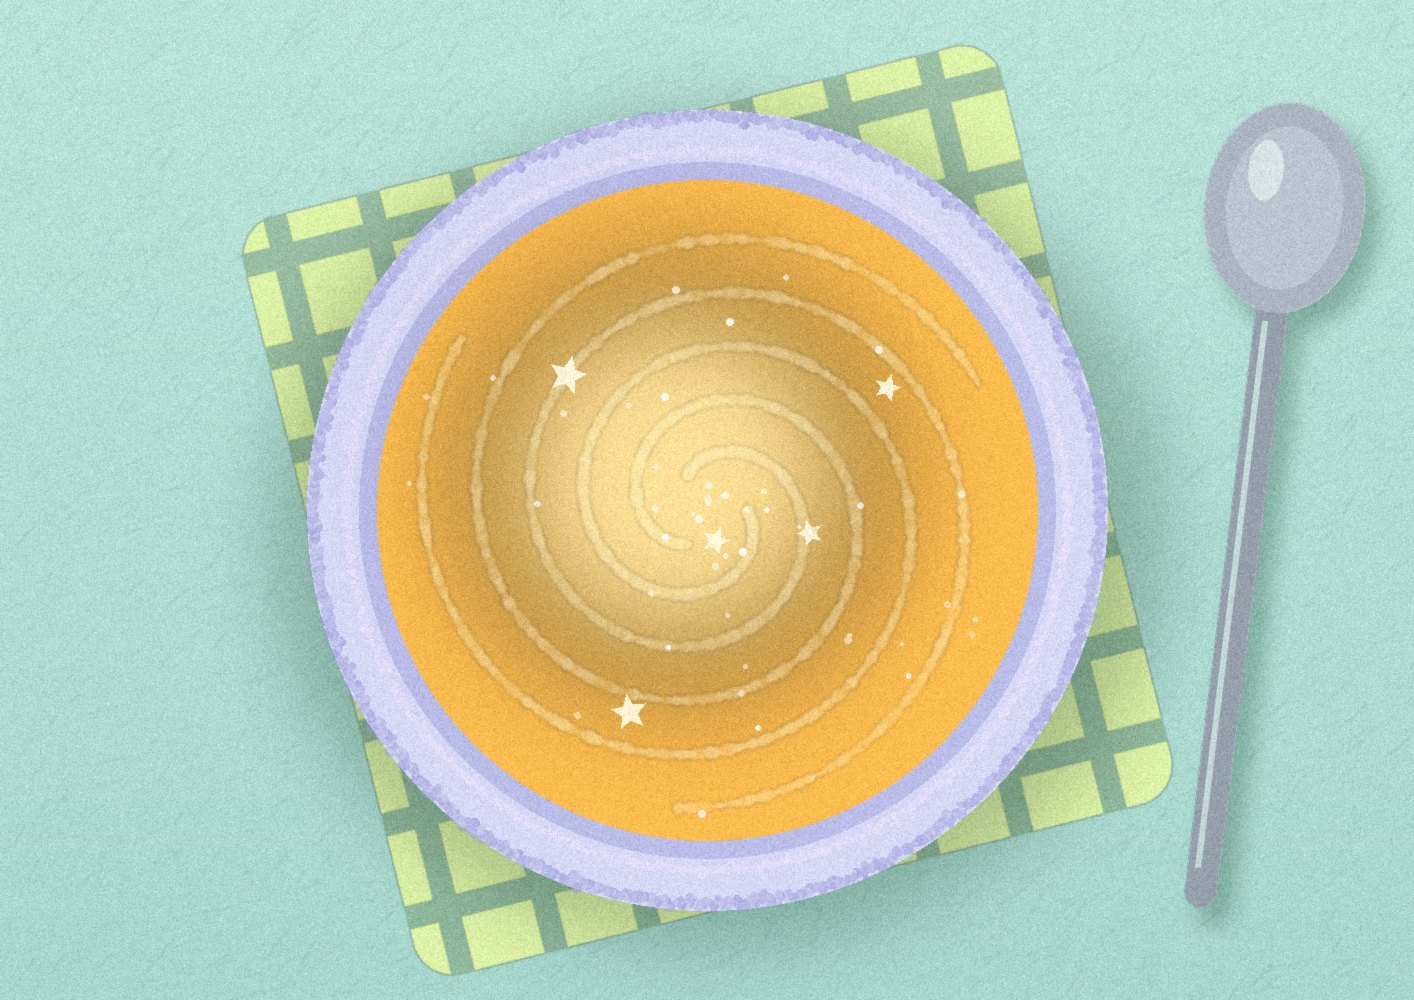
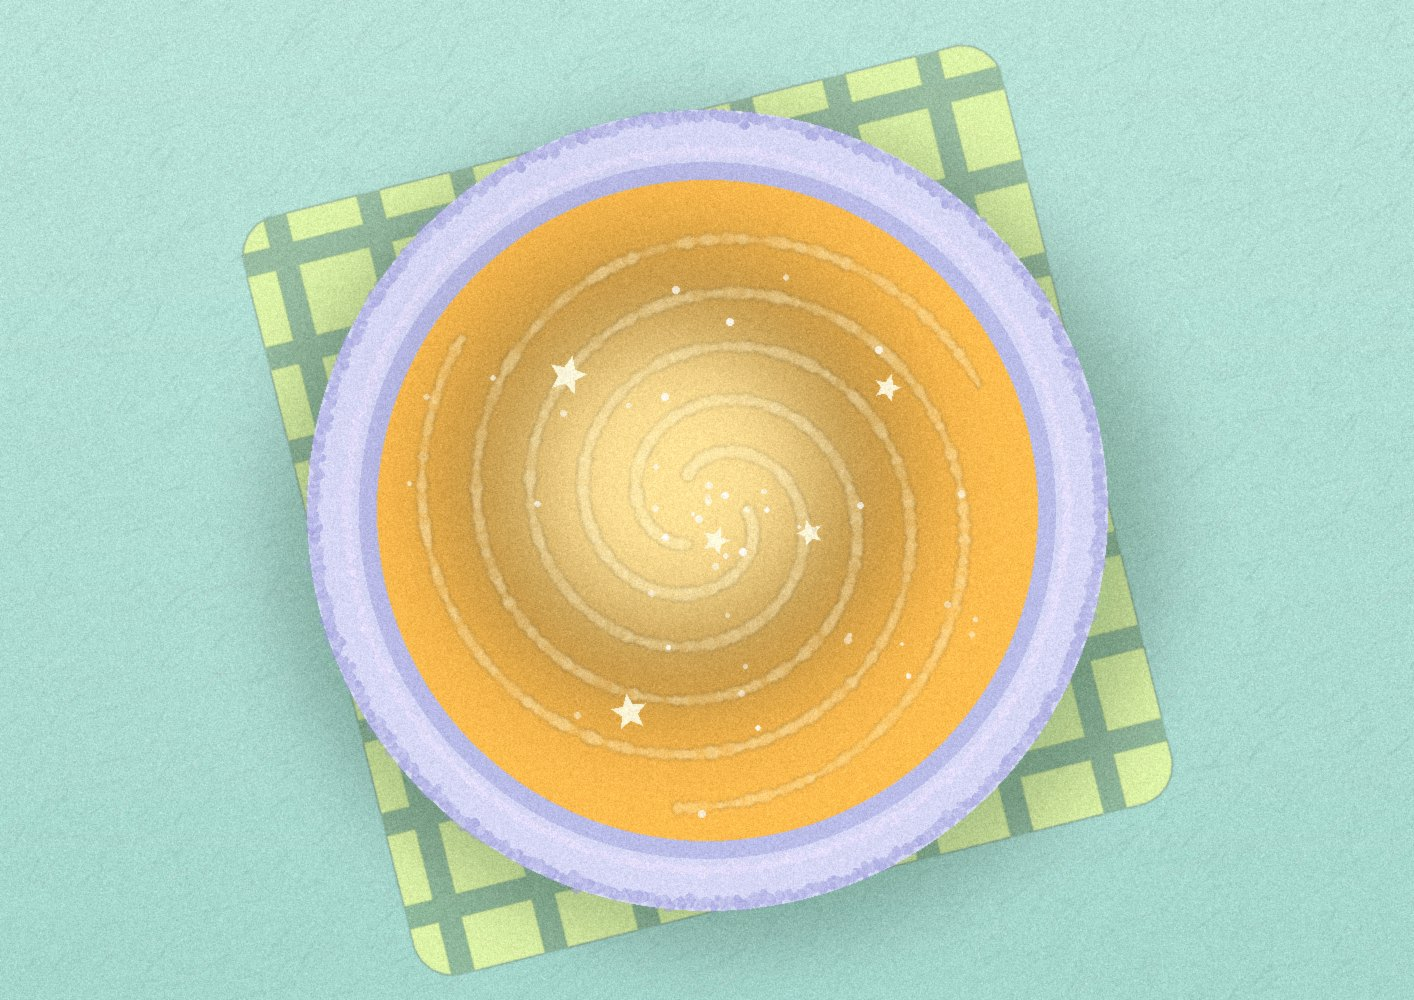
V6.5: 떠먹기를 #8 13쪽 점선 원으로 옮기고, 그림 속 숟가락이 직접 움직이게, 설명 글씨 1/3 줄이기
- 그릇 그림에서 숟가락을 빼 08-spoon.png로 따로 (soup_top.py), 재료·젓기 화면·#8에 같은 자리로 올림
- 젓기 화면의 떠먹기 제거
- #8 13쪽: 그릇 가운데 점선 원이 느릿하게 깜빡이고, 누르면 그 숟가락이 와서 한 숟갈 떠 올리고 제자리로
- 나레이션 아래 설명 문장 글씨·여백 1/3 작게

Claude-Session: https://claude.ai/code/session_01Nbh8N8c4tqUAvigBFfQUWv

Changed region(s): [[0.8402, 0.093, 0.9958, 0.93]]

diff --git a/storybook/js/main.js b/storybook/js/main.js
@@ -637,6 +637,7 @@
         : null;
       case 'taste': return tasteCarousel();
       case 'soup-ingredients': return soupIngredients(false);
+      case 'soup-scoop': return soupScoop();
       case 'taste-draw': return state.taste === 'custom' ? drawPad(leaf, { key: IMG_TASTE, title: '무슨 맛이 났는지 그리기', clear: true, paper: true }) : null;
       // #8: 꾸민 착한 일 종이(메모지)를 스프가 놓인 식탁 한구석에
       case 'deed-note': return images[IMG_DEED]
@@ -1669,7 +1670,7 @@
       },
       body: function () {
         var full = state.soup.length >= S.limits.ingredients;
-        var pot = el('div', { class: 'soup-pot' }, el('img', { class: 'soup-pot-img', src: 'assets/backgrounds/08-soup-top.jpg', alt: '위에서 내려다본 별빛스프' }), el('div', { class: 'soup-galaxy' }), soupIngredients(true));
+        var pot = el('div', { class: 'soup-pot' }, el('img', { class: 'soup-pot-img', src: 'assets/backgrounds/08-soup-top.jpg', alt: '위에서 내려다본 별빛스프' }), el('div', { class: 'soup-galaxy' }), soupIngredients(true), potSpoon());
         var add = el('button', {
           type: 'button', class: 'btn btn-soft btn-small soup-add', disabled: full,
           text: full ? '재료를 다섯 개 다 넣었어요' : '+ 재료 넣기 (' + state.soup.length + '/' + S.limits.ingredients + ')',
@@ -1705,7 +1706,7 @@
         var count = el('div', { class: 'stir-count', 'aria-live': 'polite' });
         var pot = el('button', { type: 'button', class: 'soup-pot stir-pot', 'aria-label': '스프 젓기 (눌러서 저어요)' },
           el('img', { class: 'soup-pot-img', src: 'assets/backgrounds/08-soup-top.jpg', alt: '' }),
-          el('div', { class: 'stir-floor', 'aria-hidden': 'true' }), surface, floats, count);
+          el('div', { class: 'stir-floor', 'aria-hidden': 'true' }), surface, floats, potSpoon(), count);
         // 물성: 걸쭉한 스프를 숟가락으로 미는 느낌
         //  - 힘이 서서히 실려 천천히 출발(슬로우 인), 관성으로 살짝 지나쳤다가 되돌아와 멈춤
         //  - 재료는 액체보다 늦게, 더 크게 흔들리며 따라옴
@@ -1874,7 +1875,7 @@
         if (window.ResizeObserver) new ResizeObserver(function () { if (!phy.raf) drawGoo(); }).observe(goo);
         else requestAnimationFrame(function () { requestAnimationFrame(drawGoo); });
         pot.addEventListener('pointerdown', function (e) {
-          if (state.soupStirs >= 10) { scoop(pot, e); return; }   // 다 저은 뒤에는 누르면 한 숟갈 떠먹는다
+          if (state.soupStirs >= 10) return;
           state.soupStirs++;
           paint();
           phy.tap = performance.now();
@@ -1919,8 +1920,8 @@
         });
         return el('div', { class: 'soup-cook' }, pot);
       },
-      note: function () { return state.soupStirs >= 10 ? '보글보글, 별빛스프가 완성됐어요! 스프를 누르면 한 숟갈 떠먹어요.' : '스프를 눌러 저어요. 한 번 누를 때마다 휘휘 돌아가요.'; },
-      notes: function () { return ['보글보글, 별빛스프가 완성됐어요! 스프를 누르면 한 숟갈 떠먹어요.', '스프를 눌러 저어요. 한 번 누를 때마다 휘휘 돌아가요.']; },
+      note: function () { return state.soupStirs >= 10 ? '보글보글, 별빛스프가 완성됐어요!' : '스프를 눌러 저어요. 한 번 누를 때마다 휘휘 돌아가요.'; },
+      notes: function () { return ['보글보글, 별빛스프가 완성됐어요!', '스프를 눌러 저어요. 한 번 누를 때마다 휘휘 돌아가요.']; },
       ready: function () { return state.soupStirs >= 10; },
       requireMessage: '스프를 10번 눌러서 다 저어 주세요.'
     },
@@ -2172,46 +2173,69 @@
     if (state.scene > 0) go(state.scene - 1, lastPage(S.scenes[state.scene - 1]));
   }
 
-  /* ---------- 떠먹기: 다 저은 스프를 누르면 은숟가락이 내려와 한 숟갈 떠서 들어 올린다 ----------
-     숟가락이 비스듬히 들어와(슬로우 인) 스프에 잠기며 파문이 일고, 금빛 스프를 담아 위로 올라가며 사라진다 */
-  function scoop(pot, e) {
-    if (pot._scooping) return;
-    pot._scooping = true;
-    var r = pot.getBoundingClientRect();
-    // 누른 곳을 스프 원 안으로 당겨 온다 (원: 가로 23.35%, 세로 33%)
-    var cx = r.width * 0.5, cy = r.height * 0.51, rx = r.width * 0.2335 * 0.8, ry = r.height * 0.33 * 0.8;
-    var dx = (e.clientX - r.left - cx) / rx, dy = (e.clientY - r.top - cy) / ry, dd = Math.hypot(dx, dy);
-    if (dd > 1) { dx /= dd; dy /= dd; }
-    var x = cx + dx * rx, y = cy + dy * ry, S = r.width * 0.3;
-    var spoon = el('div', { class: 'scoop', 'aria-hidden': 'true' });
-    spoon.innerHTML = '<svg viewBox="0 0 60 200" width="100%" height="100%"><defs><linearGradient id="spg" x1="0" x2="1"><stop offset="0" stop-color="#cfd6e0"/><stop offset=".5" stop-color="#f4f7fa"/><stop offset="1" stop-color="#aeb8c6"/></linearGradient></defs>' +
-      '<rect x="25" y="62" width="10" height="134" rx="5" fill="url(#spg)" stroke="#9aa5b4" stroke-width="1.5"/>' +
-      '<ellipse cx="30" cy="34" rx="24" ry="32" fill="url(#spg)" stroke="#9aa5b4" stroke-width="1.5"/>' +
-      '<ellipse class="scoop-soup" cx="30" cy="36" rx="18" ry="24" fill="#f6b94a" opacity="0"/>' +
-      '<ellipse cx="22" cy="24" rx="5" ry="9" fill="#fff" opacity=".7"/></svg>';
-    spoon.style.left = x + 'px'; spoon.style.top = y + 'px'; spoon.style.width = S * 0.3 + 'px'; spoon.style.height = S + 'px';
-    pot.append(spoon);
-    var fill = spoon.querySelector('.scoop-soup');
-    var t = 'translate(-50%, -18%) ';
-    var anim = spoon.animate([
-      { transform: t + 'translate(40%, -70%) rotate(28deg) scale(1.05)', opacity: 0 },
-      { transform: t + 'translate(10%, -20%) rotate(18deg)', opacity: 1, offset: 0.25 },
-      { transform: t + 'translate(0, 4%) rotate(6deg) scale(0.96)', opacity: 1, offset: 0.45 },     // 스프에 잠김
-      { transform: t + 'translate(-6%, 2%) rotate(-4deg) scale(0.96)', opacity: 1, offset: 0.6 },   // 떠 올림
-      { transform: t + 'translate(-10%, -60%) rotate(-12deg) scale(1.04)', opacity: 1, offset: 0.85 },
-      { transform: t + 'translate(-14%, -95%) rotate(-16deg) scale(1.08)', opacity: 0 }
-    ], { duration: 2000, easing: 'cubic-bezier(.45,.05,.35,1)' });
-    fill.animate([{ opacity: 0 }, { opacity: 0, offset: 0.5 }, { opacity: 1, offset: 0.6 }, { opacity: 1 }], { duration: 2000, fill: 'forwards' });
-    // 숟가락이 잠기는 순간 파문
-    setTimeout(function () {
-      var ring = el('span', { class: 'scoop-ring', 'aria-hidden': 'true' });
-      ring.style.left = x + 'px'; ring.style.top = y + 'px'; ring.style.width = ring.style.height = S * 0.5 + 'px';
-      pot.append(ring);
-      if (ring.animate) ring.animate([{ transform: 'translate(-50%, -50%) scale(0.3)', opacity: 0.9 }, { transform: 'translate(-50%, -50%) scale(1.6)', opacity: 0 }], { duration: 800, easing: 'ease-out', fill: 'forwards' });
-      setTimeout(function () { ring.remove(); }, 820);
-    }, 850);
-    var done = function () { spoon.remove(); pot._scooping = false; };
-    anim.finished.then(done, done);
+  /* ---------- 별빛스프 숟가락 ----------
+     그릇 그림(08-soup-top.jpg)에는 숟가락이 없고, 같은 자리에 따로 놓는다 (tools/soup_top.py가 08-spoon.png와 자리를 만든다).
+     그림과 같은 297:210 상자 안에서 % 위치라 재료 화면·젓기 화면·#8 13쪽 어디서나 같은 자리 */
+  var SPOON = { x: 0.761, y: 0.069, w: 0.256, h: 0.912, hx: 0.58, hy: 0.13 };   // hx·hy: 숟가락 머리(오목한 곳) 위치
+  function potSpoon() {
+    var wrap = el('div', { class: 'pot-spoon', 'aria-hidden': 'true' },
+      el('img', { src: 'assets/backgrounds/08-spoon.png', alt: '', draggable: 'false' }),
+      el('span', { class: 'pot-spoon-soup' }));
+    wrap.style.left = SPOON.x * 100 + '%'; wrap.style.top = SPOON.y * 100 + '%';
+    wrap.style.width = SPOON.w * 100 + '%'; wrap.style.height = SPOON.h * 100 + '%';
+    wrap.style.transformOrigin = SPOON.hx * 100 + '% ' + SPOON.hy * 100 + '%';
+    var soup = wrap.querySelector('.pot-spoon-soup');
+    soup.style.left = SPOON.hx * 100 + '%'; soup.style.top = SPOON.hy * 100 + '%';
+    return wrap;
+  }
+
+  /* ---------- #8 13쪽: 떠먹기 ----------
+     그릇 가운데에 점선 원이 느릿하게 깜빡인다. 누르면 옆에 놓인 숟가락이 날아와 스프에 잠기고(파문),
+     금빛 스프를 한 숟갈 떠서 들어 올렸다가 제자리로 돌아간다 */
+  function soupScoop() {
+    var box = el('div', { class: 'scoop-layer' });
+    var spoon = potSpoon();
+    var ring = el('button', { type: 'button', class: 'scoop-target', 'aria-label': '별빛스프 한 숟갈 떠먹기' });
+    box.append(spoon, ring);
+    var blink = ring.animate ? ring.animate([{ opacity: 0.25 }, { opacity: 1 }], { duration: 1600, direction: 'alternate', iterations: Infinity, easing: 'ease-in-out' }) : null;
+    var busy = false;
+    ring.addEventListener('click', function (e) {
+      e.stopPropagation();
+      if (busy || !spoon.animate) return;
+      busy = true;
+      if (blink) blink.pause();
+      ring.animate([{ opacity: getComputedStyle(ring).opacity }, { opacity: 0 }], { duration: 300, fill: 'forwards' });
+      var W = box.clientWidth, H = box.clientHeight;
+      // 숟가락 머리를 그릇 가운데(점선 원)로
+      var hx = (SPOON.x + SPOON.w * SPOON.hx) * W, hy = (SPOON.y + SPOON.h * SPOON.hy) * H;
+      var tx = 0.5 * W - hx, ty = 0.51 * H - hy;
+      var f = function (k, rot, sc) { return 'translate(' + (tx * k).toFixed(1) + 'px,' + (ty * k).toFixed(1) + 'px) rotate(' + rot + 'deg) scale(' + sc + ')'; };
+      var a = spoon.animate([
+        { transform: f(0, 0, 1) },
+        { transform: f(0.15, -10, 1.06), offset: 0.12 },                                  // 집어 들기
+        { transform: 'translate(' + tx.toFixed(1) + 'px,' + (ty - H * 0.08).toFixed(1) + 'px) rotate(-38deg) scale(1.08)', offset: 0.36 },
+        { transform: f(1, -30, 0.96), offset: 0.48 },                                     // 스프에 잠김
+        { transform: f(1, -44, 0.96), offset: 0.6 },                                      // 떠 올림
+        { transform: 'translate(' + tx.toFixed(1) + 'px,' + (ty - H * 0.16).toFixed(1) + 'px) rotate(-40deg) scale(1.1)', offset: 0.76 },
+        { transform: f(0, 0, 1) }
+      ], { duration: 2800, easing: 'cubic-bezier(.45,.05,.35,1)' });
+      spoon.querySelector('.pot-spoon-soup').animate(
+        [{ opacity: 0 }, { opacity: 0, offset: 0.55 }, { opacity: 1, offset: 0.62 }, { opacity: 1, offset: 0.82 }, { opacity: 0, offset: 0.92 }, { opacity: 0 }],
+        { duration: 2800 });
+      setTimeout(function () {
+        var rip = el('span', { class: 'scoop-ring', 'aria-hidden': 'true' });
+        box.append(rip);
+        rip.animate([{ transform: 'translate(-50%, -50%) scale(0.3)', opacity: 0.9 }, { transform: 'translate(-50%, -50%) scale(1.7)', opacity: 0 }], { duration: 900, easing: 'ease-out', fill: 'forwards' });
+        setTimeout(function () { rip.remove(); }, 920);
+      }, 2800 * 0.47);
+      var done = function () {
+        busy = false;
+        ring.getAnimations().forEach(function (x) { if (x !== blink) x.cancel(); });
+        if (blink) blink.play();
+      };
+      a.finished.then(done, done);
+    });
+    return box;
   }
 
   /* ---------- 스프 완성: 그릇 가운데에서 별이 팡 튀어 오르고 금빛이 번진다 ----------
@@ -2256,7 +2280,7 @@
   var swipe = null;
   book.addEventListener('pointerdown', function (e) {
     if (e.pointerType === 'mouse' || swipe || switching) return;
-    if (e.target.closest('.sticker, input, textarea, .chips, .carousel, .tdraw-host, .win')) return;
+    if (e.target.closest('.sticker, input, textarea, .chips, .carousel, .tdraw-host, .win, .scoop-target')) return;
     swipe = { id: e.pointerId, x: e.clientX, y: e.clientY, t: performance.now(), dir: null, leaf: currentLeaf() };
   });
   book.addEventListener('pointermove', function (e) {

diff --git a/storybook/css/style.css b/storybook/css/style.css
@@ -1562,3 +1562,22 @@ button, .tile, .chip { touch-action: manipulation; }   /* 두 번 탭 확대와 
   background: rgb(255 252 244 / 0.86) !important; color: #6a4a2a !important; opacity: 1 !important;
   box-shadow: 0 0.6cqh 1.6cqh -0.6cqh rgb(0 0 0 / 0.25) !important; text-shadow: none !important;
 }
+/* 설명 문장: 1/3 작게 */
+.pg-note, .pg-note--bottom { font-size: max(7px, 2cqh) !important; padding: 0.7cqh 1.8cqh !important; line-height: 1.35; }
+
+/* 별빛스프 숟가락 (그릇 그림과 같은 상자 안 % 위치) */
+.pot-spoon { position: absolute; z-index: 3; pointer-events: none; will-change: transform; }
+.pot-spoon img { display: block; width: 100%; height: 100%; }
+.pot-spoon-soup { position: absolute; width: 30%; height: 11%; border-radius: 50%; transform: translate(-50%, -50%); background: radial-gradient(circle at 40% 40%, #ffe6a0, #f6b94a 60%, #e89a2c); opacity: 0; }
+.stir-pot .pot-spoon, .soup-pot .pot-spoon { z-index: 1; }
+/* #8 13쪽 떠먹기 */
+.scoop-layer { position: absolute; inset: 0; z-index: 4; pointer-events: none; }
+.scoop-target {
+  position: absolute; left: 50%; top: 51%; width: 26%; aspect-ratio: 1; transform: translate(-50%, -50%);
+  border-radius: 50%; border: max(2px, 0.7cqh) dashed rgb(255 252 236 / 0.95); background: rgb(255 246 210 / 0.12);
+  box-shadow: 0 0 2cqh rgb(255 220 140 / 0.6); padding: 0; cursor: pointer; pointer-events: auto;
+}
+.scoop-layer .scoop-ring { left: 50%; top: 51%; width: 18%; aspect-ratio: 1; height: auto; }
+.scoop-target { width: 30%; border: max(3px, 1cqh) dashed #fff; background: rgb(255 255 255 / 0.18);
+  box-shadow: 0 0 0 max(2px, 0.5cqh) rgb(196 120 30 / 0.55), inset 0 0 0 max(2px, 0.5cqh) rgb(196 120 30 / 0.4), 0 0 3cqh rgb(255 230 150 / 0.8); }
+.stir-count { z-index: 2; }

diff --git a/storybook/index.html b/storybook/index.html
@@ -8,8 +8,8 @@
 <link rel="preconnect" href="https://fonts.googleapis.com">
 <link rel="preconnect" href="https://fonts.gstatic.com" crossorigin>
 <link rel="stylesheet" href="https://fonts.googleapis.com/css2?family=Gowun+Dodum&family=Jua&display=swap">
-<link rel="stylesheet" href="css/style.css?v=6.4">
-<link rel="stylesheet" href="css/editor.css?v=6.4">
+<link rel="stylesheet" href="css/style.css?v=6.5">
+<link rel="stylesheet" href="css/editor.css?v=6.5">
 </head>
 <body>
 <div class="app" id="app" data-screen="cover">
@@ -218,10 +218,10 @@
   </div>
 </div>
 
-<script src="js/storage.js?v=6.4"></script>
-<script src="js/story.js?v=6.4"></script>
-<script src="js/drawing.js?v=6.4"></script>
-<script src="js/weather.js?v=6.4"></script>
-<script src="js/main.js?v=6.4"></script>
+<script src="js/storage.js?v=6.5"></script>
+<script src="js/story.js?v=6.5"></script>
+<script src="js/drawing.js?v=6.5"></script>
+<script src="js/weather.js?v=6.5"></script>
+<script src="js/main.js?v=6.5"></script>
 </body>
 </html>

diff --git a/storybook/js/story.js b/storybook/js/story.js
@@ -232,7 +232,7 @@
       id: 'soup', act: 2, tone: 'gold', no: '8', effect: 'sparkles', sparkles: 12, asks: ['soup', 'stir'], onePage: true,
       image: null, alt: '위에서 내려다본 별빛스프',
       pages: [
-        { image: 'assets/backgrounds/08-soup-top.jpg', widgets: ['soup-ingredients', 'deed-note'], text: true, place: 'top', ink: 'dark' },
+        { image: 'assets/backgrounds/08-soup-top.jpg', widgets: ['soup-ingredients', 'deed-note', 'soup-scoop'], text: true, place: 'top', ink: 'dark' },
         { art: 'starsky', artPos: 'bottom' }
       ],
       text: function (c) {
@@ -441,7 +441,7 @@
   };
 
   window.StarSoup = {
-    version: '6.4',   // 게시할 때마다 0.1씩 올린다 (index.html의 ?v= 와 맞춘다)
+    version: '6.5',   // 게시할 때마다 0.1씩 올린다 (index.html의 ?v= 와 맞춘다)
     cover: cover,
     acts: acts,
     foods: foods,

diff --git a/storybook/tools/soup_top.py b/storybook/tools/soup_top.py
@@ -105,11 +105,13 @@ spd.ellipse((70, 50, 104, 110), fill=(236, 242, 246, 200))                      
 spd.line((104, 230, 104, SL - 20), fill=(214, 222, 228, 170), width=6)                     # 자루 빛
 spl = spl.rotate(-7, resample=Image.BICUBIC, expand=True)
 shadow = Image.new('RGBA', spl.size, (40, 80, 60, 0)); shadow.putalpha(spl.getchannel('A').point(lambda v: v * 0.35))
-sp = layer()
+# 숟가락은 그림에 그려 넣지 않고 따로 저장한다 (#8에서 떠먹을 때 그 숟가락이 움직인다)
 px, py = CX + R_OUT + 140 - spl.width // 2, CY - spl.height // 2
-sp.alpha_composite(shadow.filter(ImageFilter.GaussianBlur(10)), (px + 14, py + 18))
-sp.alpha_composite(spl, (px, py))
-img.alpha_composite(sp)
+spo = Image.new('RGBA', (spl.width + 40, spl.height + 50), (255, 255, 255, 0))
+spo.alpha_composite(shadow.filter(ImageFilter.GaussianBlur(10)), (14 + 10, 18 + 10))
+spo.alpha_composite(spl, (10, 10))
+spo.save(sys.argv[1].rstrip('/') + '/08-spoon.png', optimize=True)
+print('spoon box (x, y, w, h as fraction):', round((px - 10) / W, 4), round((py - 10) / H, 4), round(spo.width / W, 4), round(spo.height / H, 4))
 
 # 종이 결
 a = np.asarray(img.convert('RGB')).astype(float)
